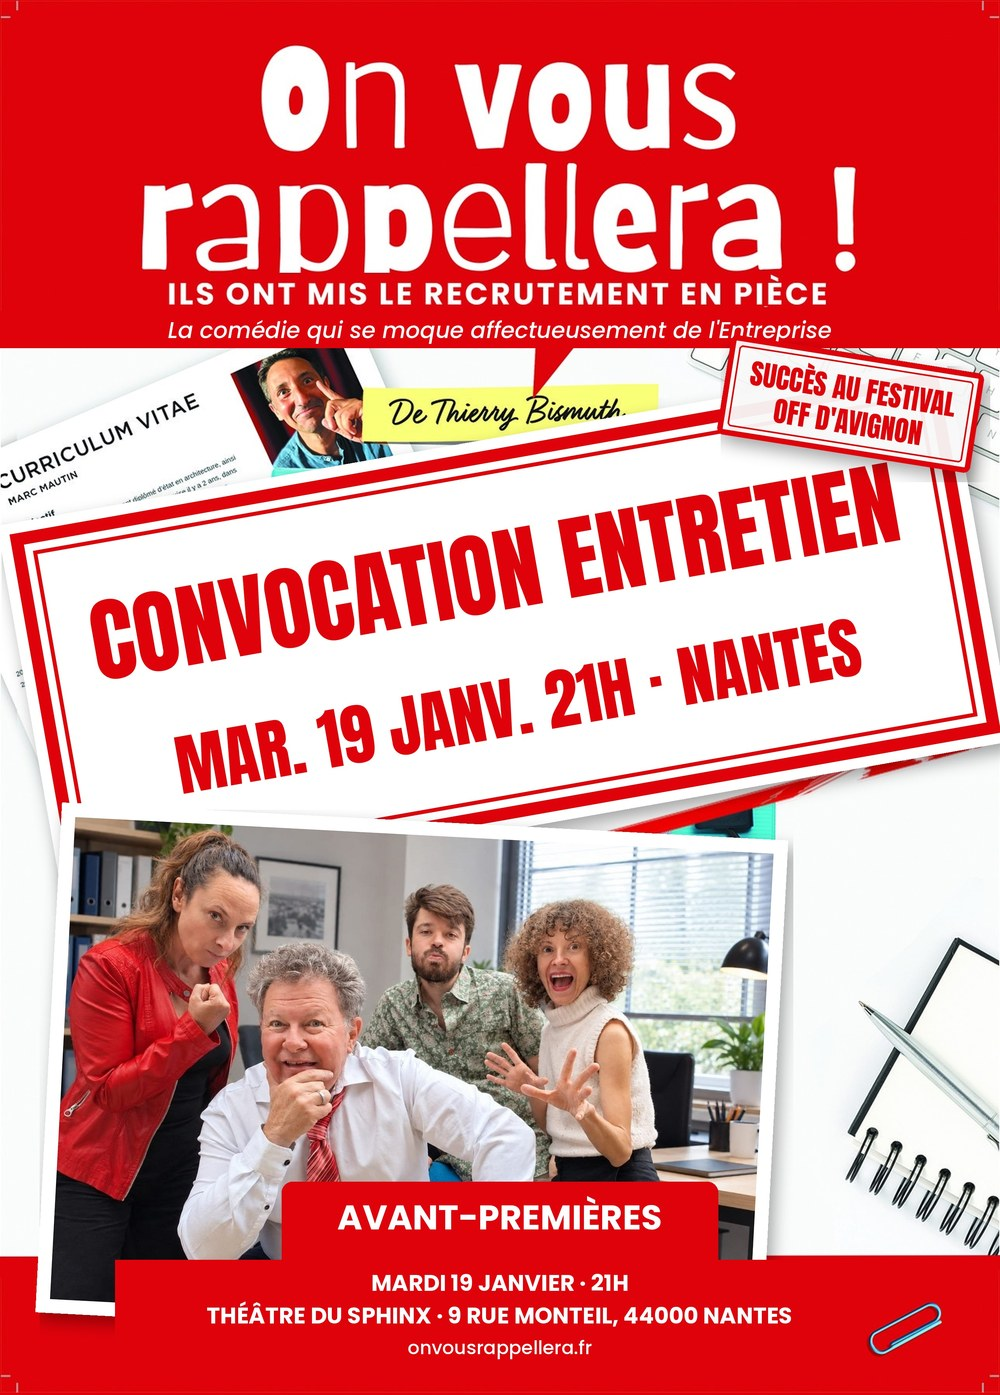
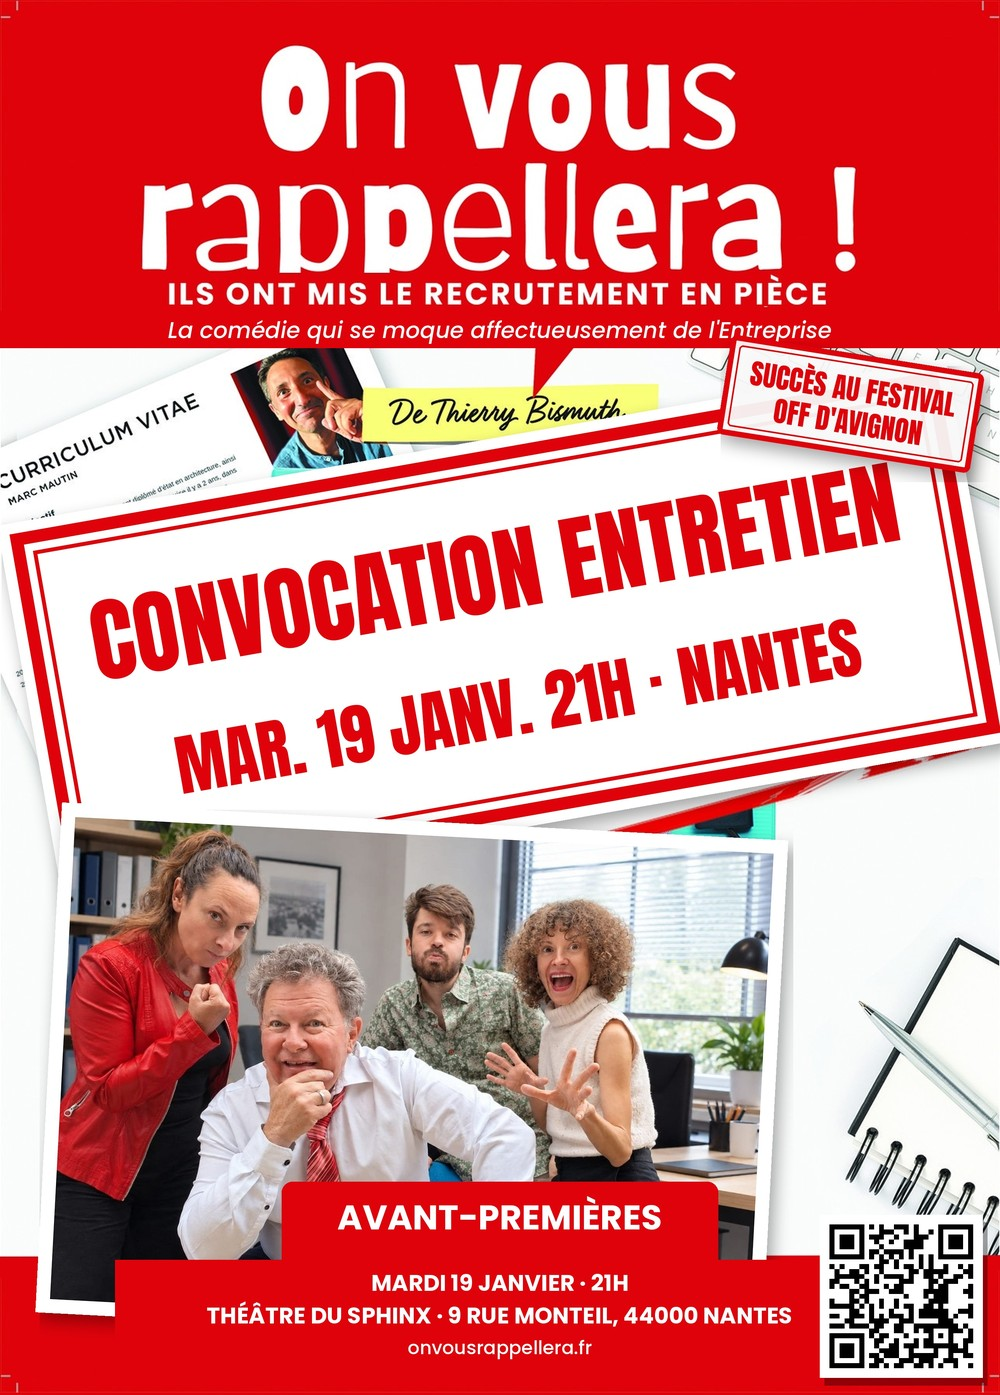
Affiches : QR code agrandi (collage) et ajouté (convocations)
Claude-Session: https://claude.ai/code/session_01Mm1mn2X9ZbbBQQBy7UJVVX

Changed region(s): [[0.806, 0.8631, 0.992, 1.0]]

diff --git a/vote-affiche.html b/vote-affiche.html
@@ -109,7 +109,7 @@ var MONTRE=[1,2,5,6,7], choix=[], VOTES={};
 function N(i){return MONTRE.indexOf(i)+1;}  /* numéro affiché 1 à 5 (même numérotation que les visuels diffusés) */
 function $(i){return document.getElementById(i);}
 function esc(s){return String(s).replace(/&/g,'&amp;').replace(/</g,'&lt;').replace(/"/g,'&quot;');}
-function img(i){return 'assets/vote-affiche/affiche-'+i+'.jpg?v=5';}
+function img(i){return 'assets/vote-affiche/affiche-'+i+'.jpg?v=6';}
 async function gw(p){
   p.spreadsheetId=SS;
   var r=await fetch(GW,{method:'POST',headers:{'Content-Type':'application/json'},body:JSON.stringify(p)});
